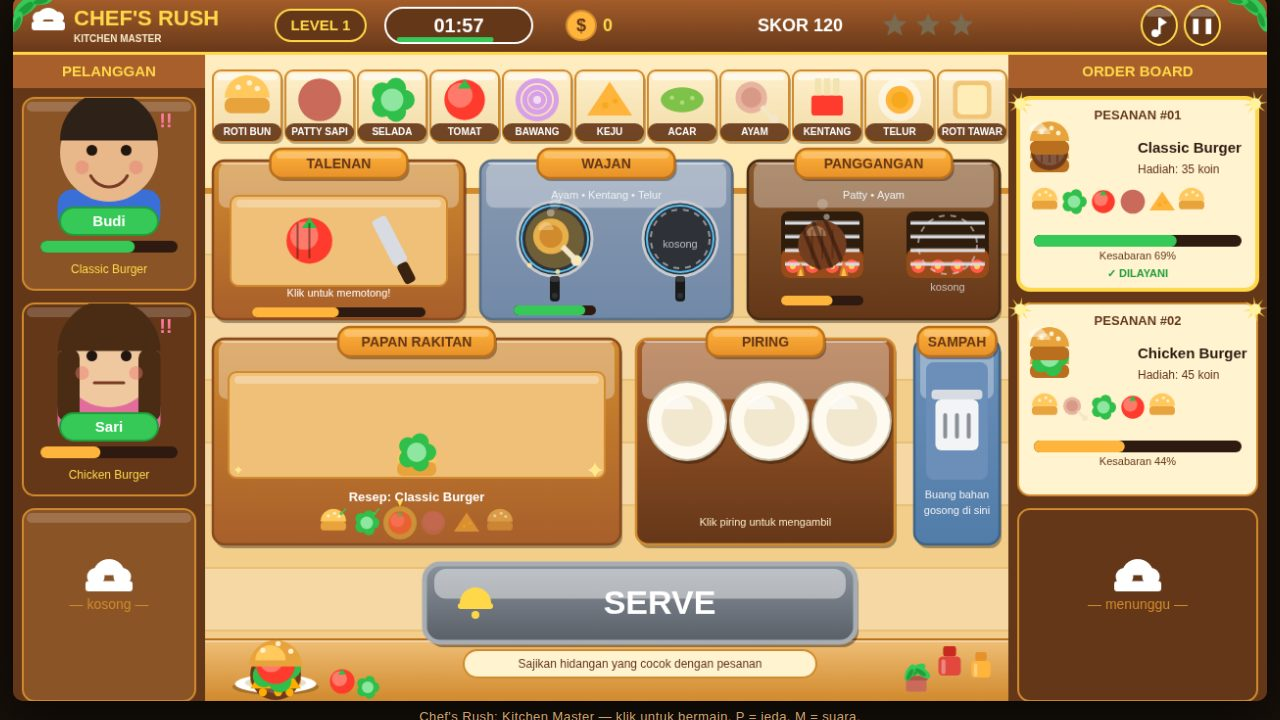
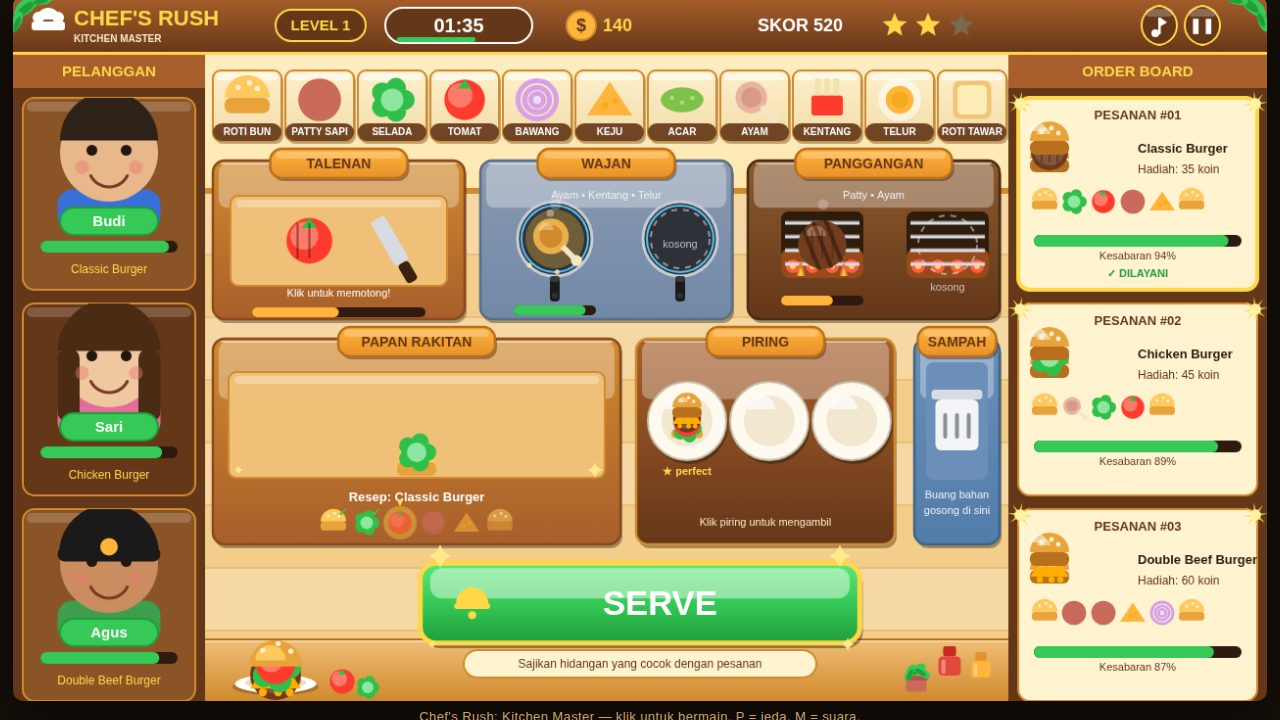
v1.11: screenshot menang 3 pelanggan (stage win) + perbaiki nama resep panjang terpotong di tiket (font 15->13)

diff --git a/game/shots.js b/game/shots.js
@@ -45,6 +45,27 @@ export function installShots(g) {
         g.plates[0] = { recipeId: 'classic', burnt: false, perfect: true };
         g.score = 240;
         g.coinsEarned = 70;
+      } else if (name === 'win') {
+        // momen menang: 3 pelanggan senang, skor tinggi, SERVE siap
+        startLevel(g, 1);
+        g.timeLeft = 96;
+        g.orders = [
+          fakeOrder(g, 1, 'classic', 0, 0.95),
+          fakeOrder(g, 2, 'chicken', 1, 0.9),
+          fakeOrder(g, 3, 'double', 2, 0.88),
+        ];
+        g.nextOrderId = 4;
+        g.targetOrderId = 1;
+        g.plates[0] = { recipeId: 'classic', burnt: false, perfect: true };
+        g.grill[0] = { item: 'patty', t: 3.0 };
+        g.fry[0] = { item: 'chicken', t: 3.6 };
+        g.chop = { item: 'tomato', clicks: 2 };
+        g.board = [
+          { item: 'bun', process: 'raw', quality: 'raw' },
+          { item: 'lettuce', process: 'chop', quality: 'good' },
+        ];
+        g.score = 520;
+        g.coinsEarned = 140;
       } else if (name === 'complete') {
         startLevel(g, 1);
         g.score = 520;

diff --git a/game/render.js b/game/render.js
@@ -810,7 +810,7 @@ function drawOrderBoard(c, g) {
       iconLayers.forEach((layer, k) => drawFood(c, layer.item, L.railR.x + 42, y + 64 - k * 9, 40, 85));
       c.fillStyle = 'rgba(255,255,255,0.5)';
       c.beginPath(); c.arc(L.railR.x + 30, y + 34, 9, Math.PI, 0); c.fill();
-      text(c, recipe.name, L.railR.x + 132, y + 52, 15, '#2e1a10', 'left');
+      text(c, recipe.name, L.railR.x + 132, y + 52, 13, '#2e1a10', 'left');
       text(c, 'Hadiah: ' + o.reward + ' koin', L.railR.x + 132, y + 74, 12, '#653719', 'left', false);
       // daftar bahan
       recipe.layers.forEach((layer, k) => {
